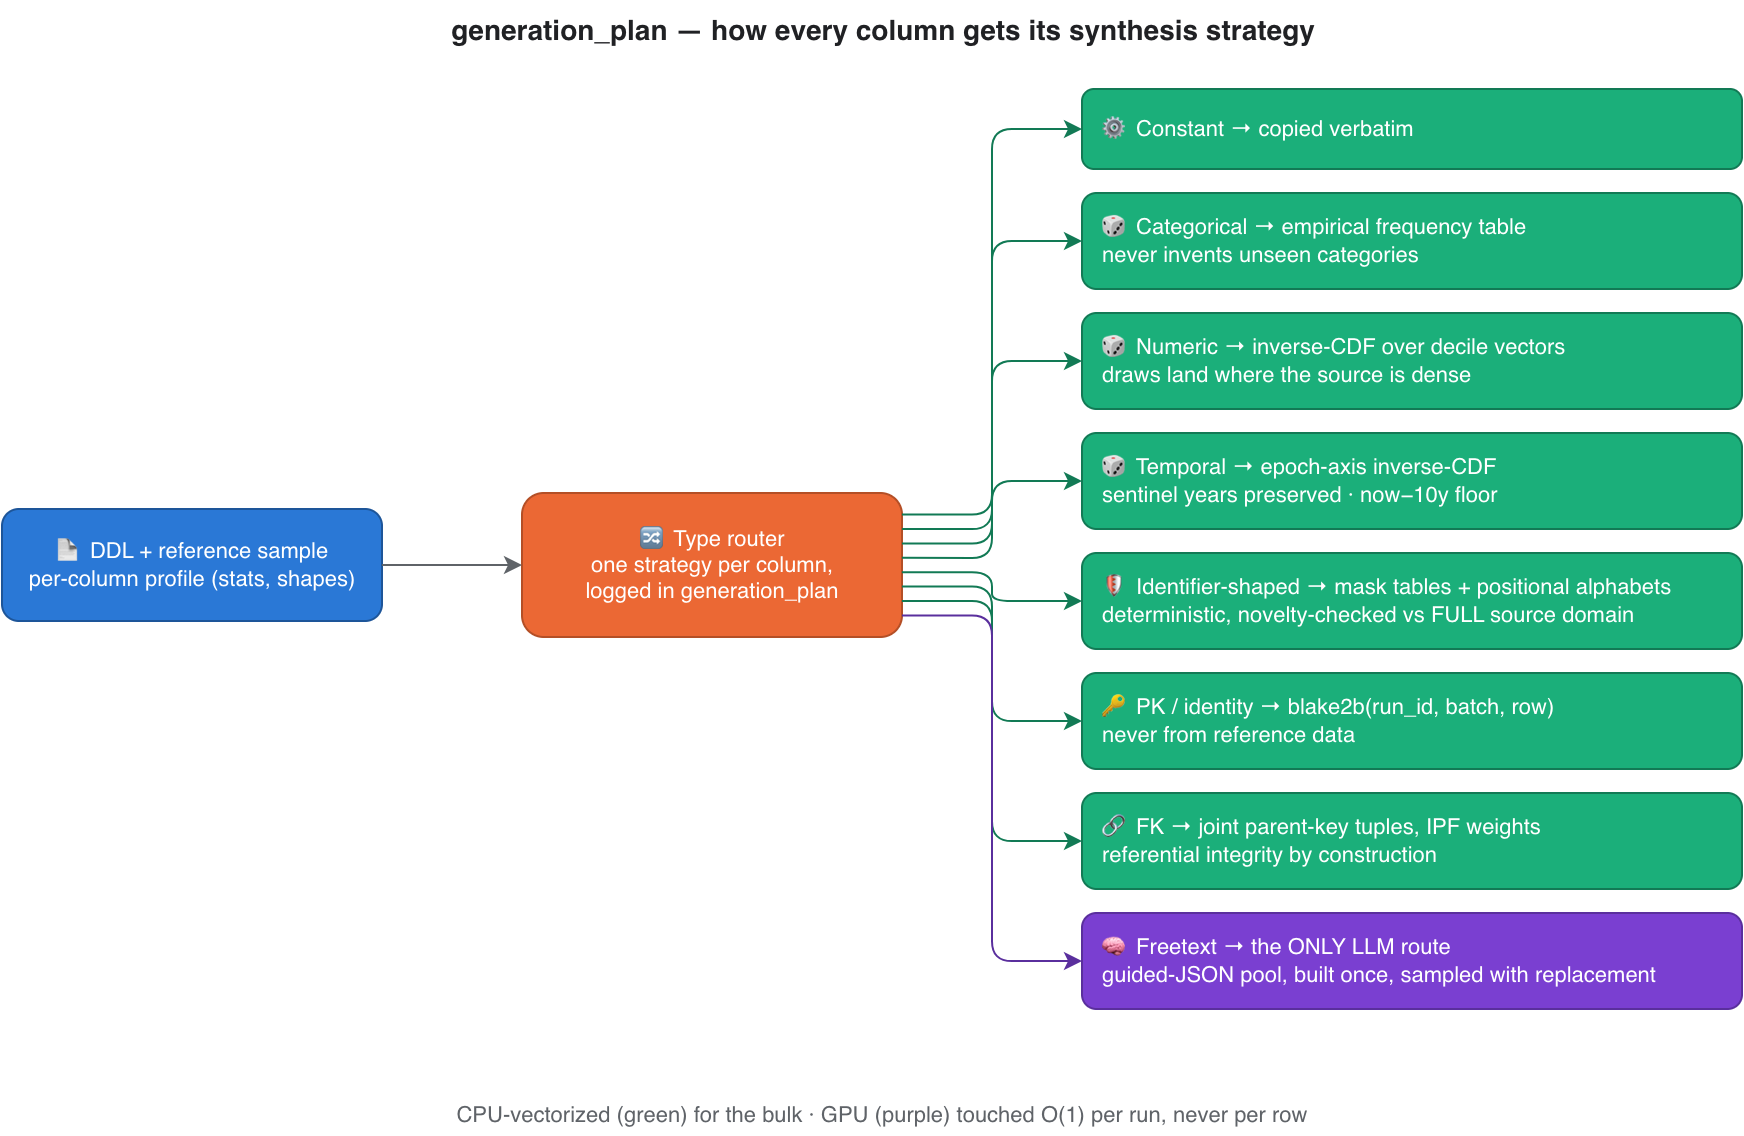
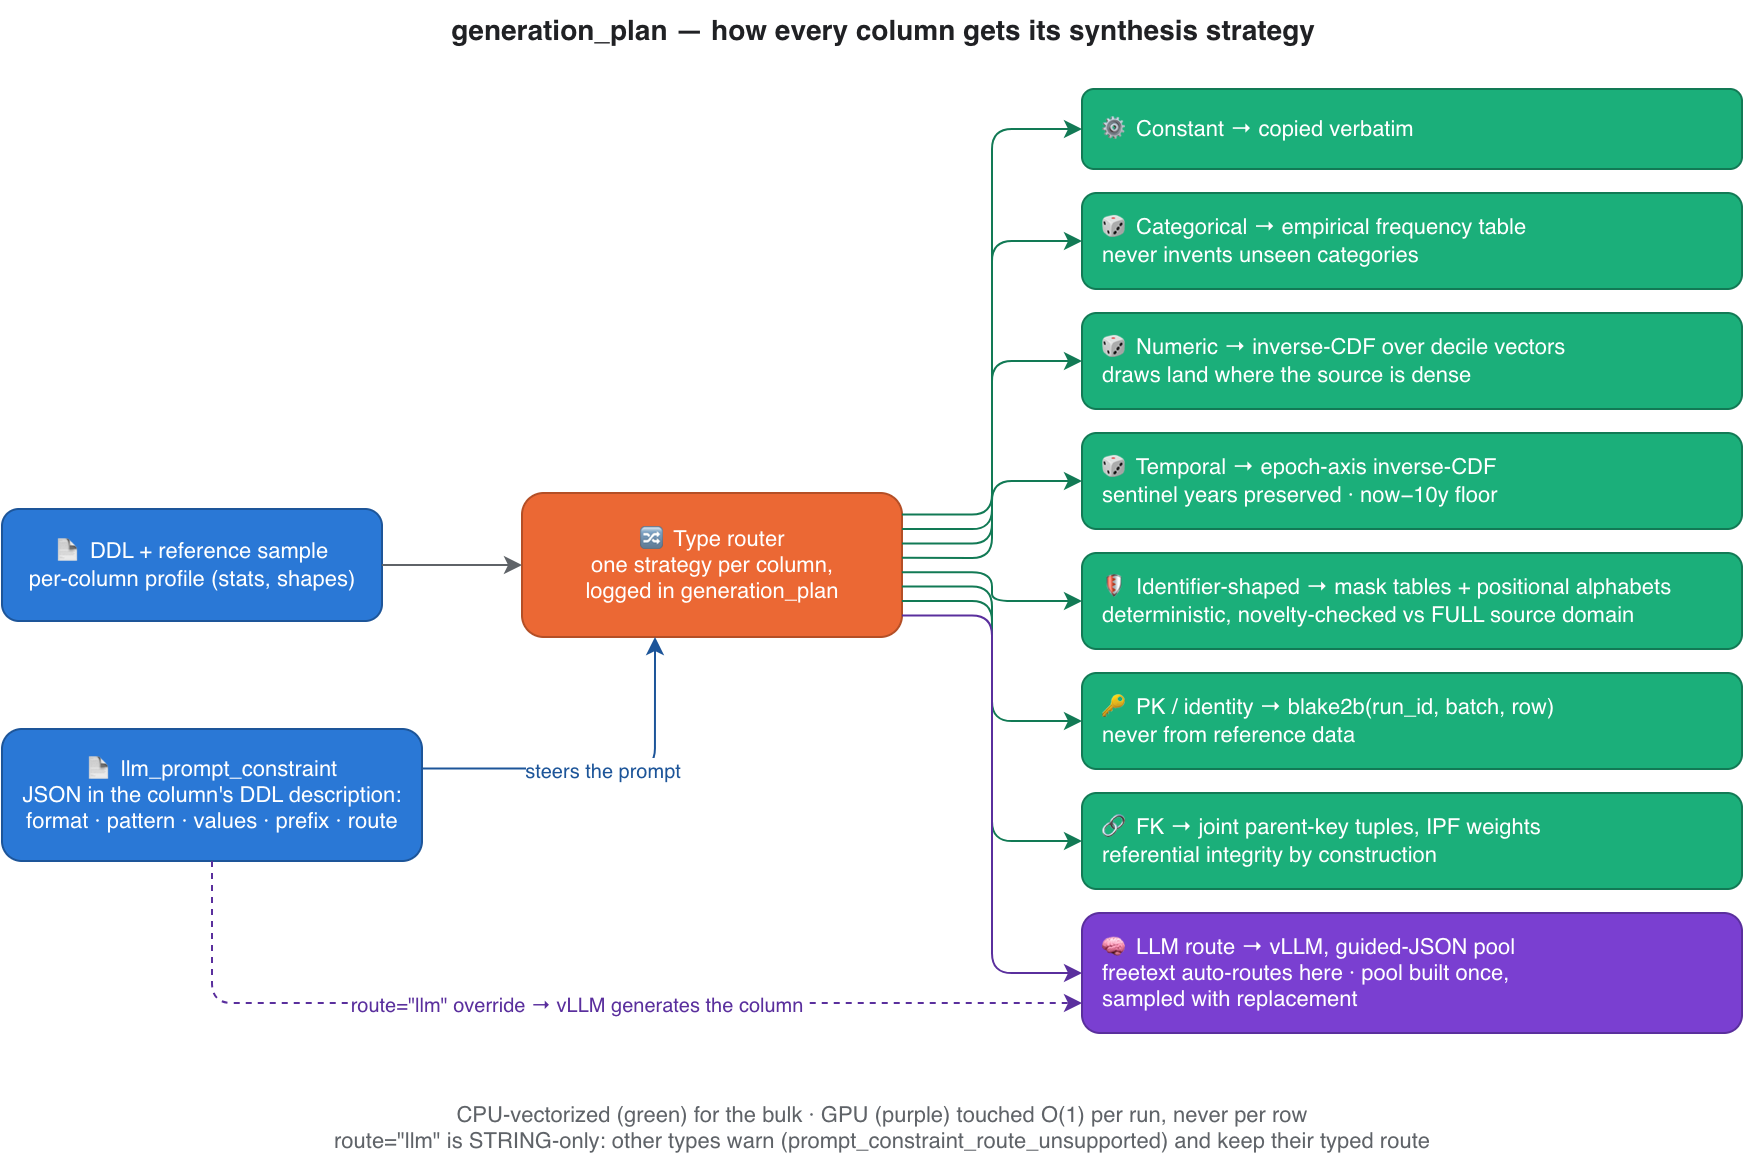
docs(articles): Article 1 pre-publish pass — retitle, Q&A hook, guardrail HLA, route:llm nuance, Beam firefly
- Retitle to "LLM and Statistical Synthetic Data with Dataflow"; subtitle now
  names the Beam Summit 2025 session explicitly
- "Thirteen questions before you scroll" rapid-fire Q&A (LinkedIn-reusable):
  engines, CPU/GPU split, embedders, FAISS+k-center, vLLM usage, BYO-model,
  route:"llm" steering, stats vocabulary, scale, guardrails, PK/FK, Summit->OSS
- New validation-guardrails drawio+PNG: three lines of defense (Pydantic ->
  Pandera -> BQ FailedRows), uniqueness/novelty gates, DLQ, BLOCKER gate,
  future eval framework (DirectRunner local / post-run on Dataflow)
- generation-plan-routing: llm_prompt_constraint node + dashed route:"llm"
  override edge; article caption/bullets carry the same nuance
  (STRING-only, prompt_constraint_route_unsupported warning)
- Apache Beam firefly mascot (ASF-attributed) embedded next to the Dataflow
  icon in architecture-overview + guardrails diagrams; PNGs re-exported
- Front matter sources/figures + synced_at_commit -> 3512a33; series index
  row updated

diff --git a/docs/articles/01-building-banking-synthetic-data-intro.md b/docs/articles/01-building-banking-synthetic-data-intro.md
@@ -1,29 +1,34 @@
 ---
-title: "Building Banking Synthetic Data for a Lakehouse with Gemma — Part 1: why, what, and the shape of the machine"
+title: "LLM and Statistical Synthetic Data with Dataflow — Part 1: why, what, and the shape of the machine"
 series_index: 1
 sources:
   - README.md
+  - docs/DDL_CONTRACT_GUIDE.md
   - docs/adr/0013-distribution-estimator-spine.md
   - docs/adr/0014-vllm-model-client-owns-server.md
   - docs/adr/0022-stats-driven-generation.md
+  - docs/adr/0024-structured-prompt-constraint-templates.md
+  - docs/adr/0028-constraint-router-relational-plan.md
   - docs/adr/0030-single-job-relational-generation.md
   - docs/adr/0031-joint-fk-key-draws.md
   - docs/adr/0032-relationships-as-config.md
   - docs/adr/0033-pool-ladder-integrity-at-scale.md
 figures:
   - docs/assets/architecture-overview.png
+  - docs/articles/assets/validation-guardrails.png
   - docs/articles/assets/generation-plan-routing.png
   - docs/designs/assets/stats-inverse-cdf.png
   - docs/designs/assets/fk-orphan-rate.png
 medium_url: null
 status: Draft
-synced_at_commit: c1e4b4c
+synced_at_commit: 3512a33
 ---
 
-# Building Banking Synthetic Data for a Lakehouse with Gemma — Part 1: why, what, and the shape of the machine
+# LLM and Statistical Synthetic Data with Dataflow — Part 1: why, what, and the shape of the machine
 
 *Self-hosted LLM generation on Apache Beam / Dataflow / BigQuery — the series
-behind the Apache Beam Summit 2025 session of the same name.*
+behind the Apache Beam Summit 2025 session "Building Banking Synthetic Data
+for a Lakehouse with Gemma".*
 
 ## The problem nobody is allowed to solve the easy way
 
@@ -52,6 +57,61 @@ community cares about that it was accepted for presentation at Apache Beam
 Summit 2025 — which is also why this series exists: the design deserves a
 longer conversation than a conference slot.
 
+### Thirteen questions before you scroll
+
+The rapid-fire version — the questions I get asked first, and where the
+series answers them in full:
+
+- **So this is just a conference talk?** It was going to be — Apache Beam
+  Summit 2025 accepted it as a session. It has since outgrown the slot:
+  Apache-2.0 licensed, released as v0.1.0, ready for the community to pick
+  up — and the relational results are the promising part: FK-enforced runs
+  measured at **0 orphans in 10M child rows**.
+- **Do you need the RAG engine (`b1_rag`) to generate values?** No —
+  `b2_library` wraps an open-source tabular synthesizer (`sdgx`), fitted
+  once per worker, behind the exact same interface; the LLM then only
+  patches free-text columns. Swap engines with one flag.
+- **Is the CPU/GPU split really necessary?** Yes — the GPU is touched O(1)
+  times per run to infer pools and distributions; the bulk of 10M rows is
+  vectorized NumPy on CPU. That split is the difference between minutes and
+  hours of GPU time — and between an affordable run and an unaffordable one.
+- **Embedders?** Yes — `b1_rag` embeds the reference sample with a small
+  open-weight model (`bge-small-en-v1.5`), warm-pulled from GCS to the
+  worker. No embedding APIs.
+- **Chunking and indexing?** Yes — reference rows are serialized per-column
+  and indexed in FAISS on each worker, with exact (non-approximate) search:
+  at a ≤10k-row sample, approximation buys nothing and costs recall.
+- **How is the LLM actually used?** Through a vLLM server each Beam worker
+  owns as a subprocess — guided-JSON decoding, automatic prefix caching,
+  continuous batching, open-weight Qwen/Gemma checkpoints loaded from GCS.
+- **Which LLM model do you need?** None in particular — the philosophy is
+  bring-your-own-model. Tested with Qwen and Gemma, but the real flexibility
+  is vLLM spawning *inside* the Dataflow worker: any open-weight checkpoint
+  vLLM can serve and the worker GPU can hold is a GCS staging path plus a
+  dtype map entry away — no re-architecture, no serving layer to rebuild.
+- **So RAG retrieval methods are really in there?** Yes — retrieval grounds
+  the prompts: FAISS search over the embedded sample selects representative
+  exemplars (k-center seeding, not just nearest-neighbour lookalikes) so the
+  model sees what a column's values look like without shipping the whole
+  sample into the prompt.
+- **Can you steer one specific column?** Yes — a JSON
+  `llm_prompt_constraint` in the column's DDL description (format, regex
+  pattern, allowed values, prefix, examples); add `route: "llm"` and even a
+  "boring" typed STRING column is generated by vLLM under those constraints.
+- **What statistics background do you need?** Deciles, distribution shape,
+  fidelity, memorization, copy rate, entropy, interpolation — Part 8 teaches
+  exactly that list, nothing more exotic.
+- **Does it scale?** Yes — Dataflow autoscaling with GPU-capped worker
+  pools; measured 10M rows sustained at ~6.3k rows/s.
+- **Any guardrails, or do you just trust the model?** Three lines of defense
+  inside the pipeline — per-record validation, per-batch Pandera, BigQuery
+  load rejects — plus uniqueness enforcement, a DLQ that receives every
+  rejected row, and a blocker gate that fails the whole job.
+- **What about primary and foreign keys?** Declared as versioned config and
+  enforced *by construction*, not post-hoc repair. This article has a
+  dedicated section on it below — with the diagram and the measured
+  numbers — and Part 6 is entirely that story.
+
 ## The shape of the machine
 
 One Dataflow job reads a table's DDL plus a deterministic ≤10k-row reference
@@ -64,6 +124,30 @@ rejected row, and an audit trail.
 construction — and nothing leaves the project boundary:*
 
 ![Architecture overview](../assets/architecture-overview.png)
+
+That is the generation half of the machine. The other half is the guardrail
+— because an LLM that just produced a plausible-looking value is still an
+LLM: left unchecked it will hallucinate categories that don't exist, bend
+formats, and occasionally reproduce what it saw. So nothing model-generated
+is trusted until it has cleared three lines of defense, all inside the same
+Apache Beam pipeline:
+
+*The LLM proposes, the gates dispose — every reject lands in the DLQ with
+full error context, and blocking defects fail the whole job:*
+
+![Three lines of defense](assets/validation-guardrails.png)
+
+Line 1 checks every single record against the Pydantic contract; line 2
+checks every batch against a Pandera schema *derived from that same
+contract* — one source of truth, so the two lines cannot drift apart; line 3
+catches whatever survives both but BigQuery itself refuses at load time.
+Uniqueness and novelty gates run alongside — primary-key duplicates, and
+identifier collisions against the full source domain — and a run whose
+defect rate exceeds its threshold budget fails outright instead of landing
+quietly degraded. The same gates are being lifted into a standalone
+evaluation framework (series #10): replay them locally on Beam's
+DirectRunner before you ever pay for a GPU, or post-run against what a
+Dataflow job actually wrote.
 
 Three decisions define the architecture, and each will get its own deep-dive
 article:
@@ -93,8 +177,9 @@ The single most useful log line the pipeline emits is the
 It makes each run's synthesis auditable from worker logs alone — and it is
 the map of the whole type system:
 
-*Every column takes exactly one route, and only free-text ever reaches the
-LLM:*
+*Every column takes exactly one route — free-text is the only route that
+reaches the LLM automatically, and a DDL-declared override can force more
+columns onto it:*
 
 ![generation_plan routing](assets/generation-plan-routing.png)
 
@@ -113,15 +198,26 @@ A few of these routes hide the most interesting engineering:
 - **Categoricals never invent unseen categories.** They reproduce the
   measured frequency table — a 40% / 35% / 25% split of payment types stays
   a 40% / 35% / 25% split, within sampling noise.
-- **Identifiers never reach the LLM.** Account-number-shaped strings are
-  generated from mask tables and per-position alphabets, and checked for
-  novelty against the column's *full* source domain — realistic shape,
-  guaranteed non-collision with real keys.
-- **Free-text is the only LLM route**, and it is schema-constrained: guided
-  JSON decoding fills a bounded pool of novel values that the run then
-  samples with replacement. If the LLM path is unhealthy, the run fails
-  loudly (`strict_freetext`) instead of silently copying source values —
-  because a silent fallback is a privacy leak wearing a green checkmark.
+- **Identifiers never reach the LLM by default.** Account-number-shaped
+  strings are generated from mask tables and per-position alphabets, and
+  checked for novelty against the column's *full* source domain — realistic
+  shape, guaranteed non-collision with real keys.
+- **Free-text is the only *automatic* LLM route**, and it is
+  schema-constrained: guided JSON decoding fills a bounded pool of novel
+  values that the run then samples with replacement. If the LLM path is
+  unhealthy, the run fails loudly (`strict_freetext`) instead of silently
+  copying source values — because a silent fallback is a privacy leak
+  wearing a green checkmark.
+- **But automatic isn't exclusive: any STRING column can be steered onto
+  the LLM.** A column's BigQuery DDL description can carry a JSON
+  `llm_prompt_constraint` — format, regex pattern, allowed values, prefix,
+  charset, worked examples — and every LLM-routed column's prompt honors
+  it. Set `route: "llm"` inside that JSON and the profiler override kicks
+  in: a column the router would have typed as constant, categorical, or
+  identifier is instead **generated by vLLM under those constraints**,
+  guided decoding included. The override is STRING-only by design —
+  declare it on an INT64 and the run warns
+  (`prompt_constraint_route_unsupported`) and keeps the typed route.
 
 Part 2 unpacks the free-text machinery (pools, thresholds, format gates,
 failovers, the RAG interplay); Part 8 covers the statistics.
@@ -218,8 +314,12 @@ pipelines on the same substrate).
 ---
 
 *Provenance (dropped on Medium): sources and figures per front-matter;
-measured claims verified at repo commit `c1e4b4c` (v0.1.0 era). Figures:
-`architecture-overview.png` + `generation-plan-routing.png` (drawio sources
-committed side-by-side), `stats-inverse-cdf.png` + `fk-orphan-rate.png`
-(generated by `scripts/doc/` figure scripts from `MEASURED`/`CONCEPT`
-blocks).*
+measured claims verified at repo commit `3512a33` (v0.1.0 era). Figures:
+`architecture-overview.png` + `generation-plan-routing.png` +
+`validation-guardrails.png` (drawio sources committed side-by-side),
+`stats-inverse-cdf.png` + `fk-orphan-rate.png` (generated by `scripts/doc/`
+figure scripts from `MEASURED`/`CONCEPT` blocks). The Apache Beam firefly
+mascot embedded in the drawio diagrams is © the Apache Software Foundation
+(beam.apache.org/community/mascot/, retrieved 2026-09-01, ASF trademark),
+used to identify Apache Beam; GCP product icons are Google's official
+diagram set.*

diff --git a/docs/articles/README.md b/docs/articles/README.md
@@ -23,7 +23,7 @@ moved since `synced_at_commit`; re-verify before re-publishing) · `Stub`
 
 | # | Title / file | Scope | Sources | Figures | Status |
 |---|---|---|---|---|---|
-| 1 | [Building banking synthetic data on Dataflow — intro](01-building-banking-synthetic-data-intro.md) | The problem and constraints (privacy, no egress, self-hosted LLMs), Beam Summit 2025 framing, high-level architecture, the two engines at a glance, the `generation_plan` per-type tour, the flagship 0/10M-orphans teaser, glossary foundation (~12 terms) | `README.md`, ADR 0013/0014/0022/0028–0033 | `architecture-overview.png`, `generation-plan-routing.png`, `stats-inverse-cdf.png`, `fk-orphan-rate.png` | Draft |
+| 1 | [LLM and statistical synthetic data with Dataflow — intro](01-building-banking-synthetic-data-intro.md) | The problem and constraints (privacy, no egress, self-hosted LLMs), Beam Summit 2025 framing, rapid-fire Q&A hook (LinkedIn-reusable), high-level architecture + three-lines-of-defense guardrail HLA, the two engines at a glance, the `generation_plan` per-type tour incl. the `route:"llm"` override, the flagship 0/10M-orphans teaser, glossary foundation (~12 terms) | `README.md`, `DDL_CONTRACT_GUIDE.md`, ADR 0013/0014/0022/0024/0028–0033 | `architecture-overview.png`, `validation-guardrails.png`, `generation-plan-routing.png`, `stats-inverse-cdf.png`, `fk-orphan-rate.png` | Draft |
 | 2 | Type system & freetext resolution | The string router in depth; how freetext is resolved end-to-end: pool ladder, thresholds, format gates, failovers (shape fallback, binary fallback), prompt constraints (`route:llm`), RAG interplay, `strict_freetext` | ADR 0020/0023/0024/0026/0028/0033, `DDL_CONTRACT_GUIDE.md`, designs 2026-08-10 + 2026-08-29 | pool-ladder + router figures (`constraint-router-*`, `r6-scale-*`); new freetext-resolution drawio | Stub |
 | 3 | Common runtime — CPU/GPU split, vLLM serving | One worker pool, split by stage; vLLM in-worker spawn/ownership (VRAM fit, refcount, lost-race adoption), uniqueness enforcement modes, DLQ pattern, capped autoscaling, FILE_LOADS | ADR 0014/0019, `RUN_PLAYBOOK.md` §3/§6, designs ws5/ws6 | `ws6-run-timeline.png`, `ws5-cost-anatomy.png` | Stub |
 | 4 | b1_rag deep dive | Embedders (bge-small, device demotion), GReaT serialization, chunk identity, FAISS exact retrieval, centroid vs k-center geometry, byte-level decisions (digests, prefix caching) | ADR 0013/0018/0020, design 2026-07-25 retrieval geometry, `rag-layer-design` | `embedding-geometry-topk.png`, `prefix-vs-kcenter-coverage.png`, `centroid-vs-perquery.png` | Stub |
